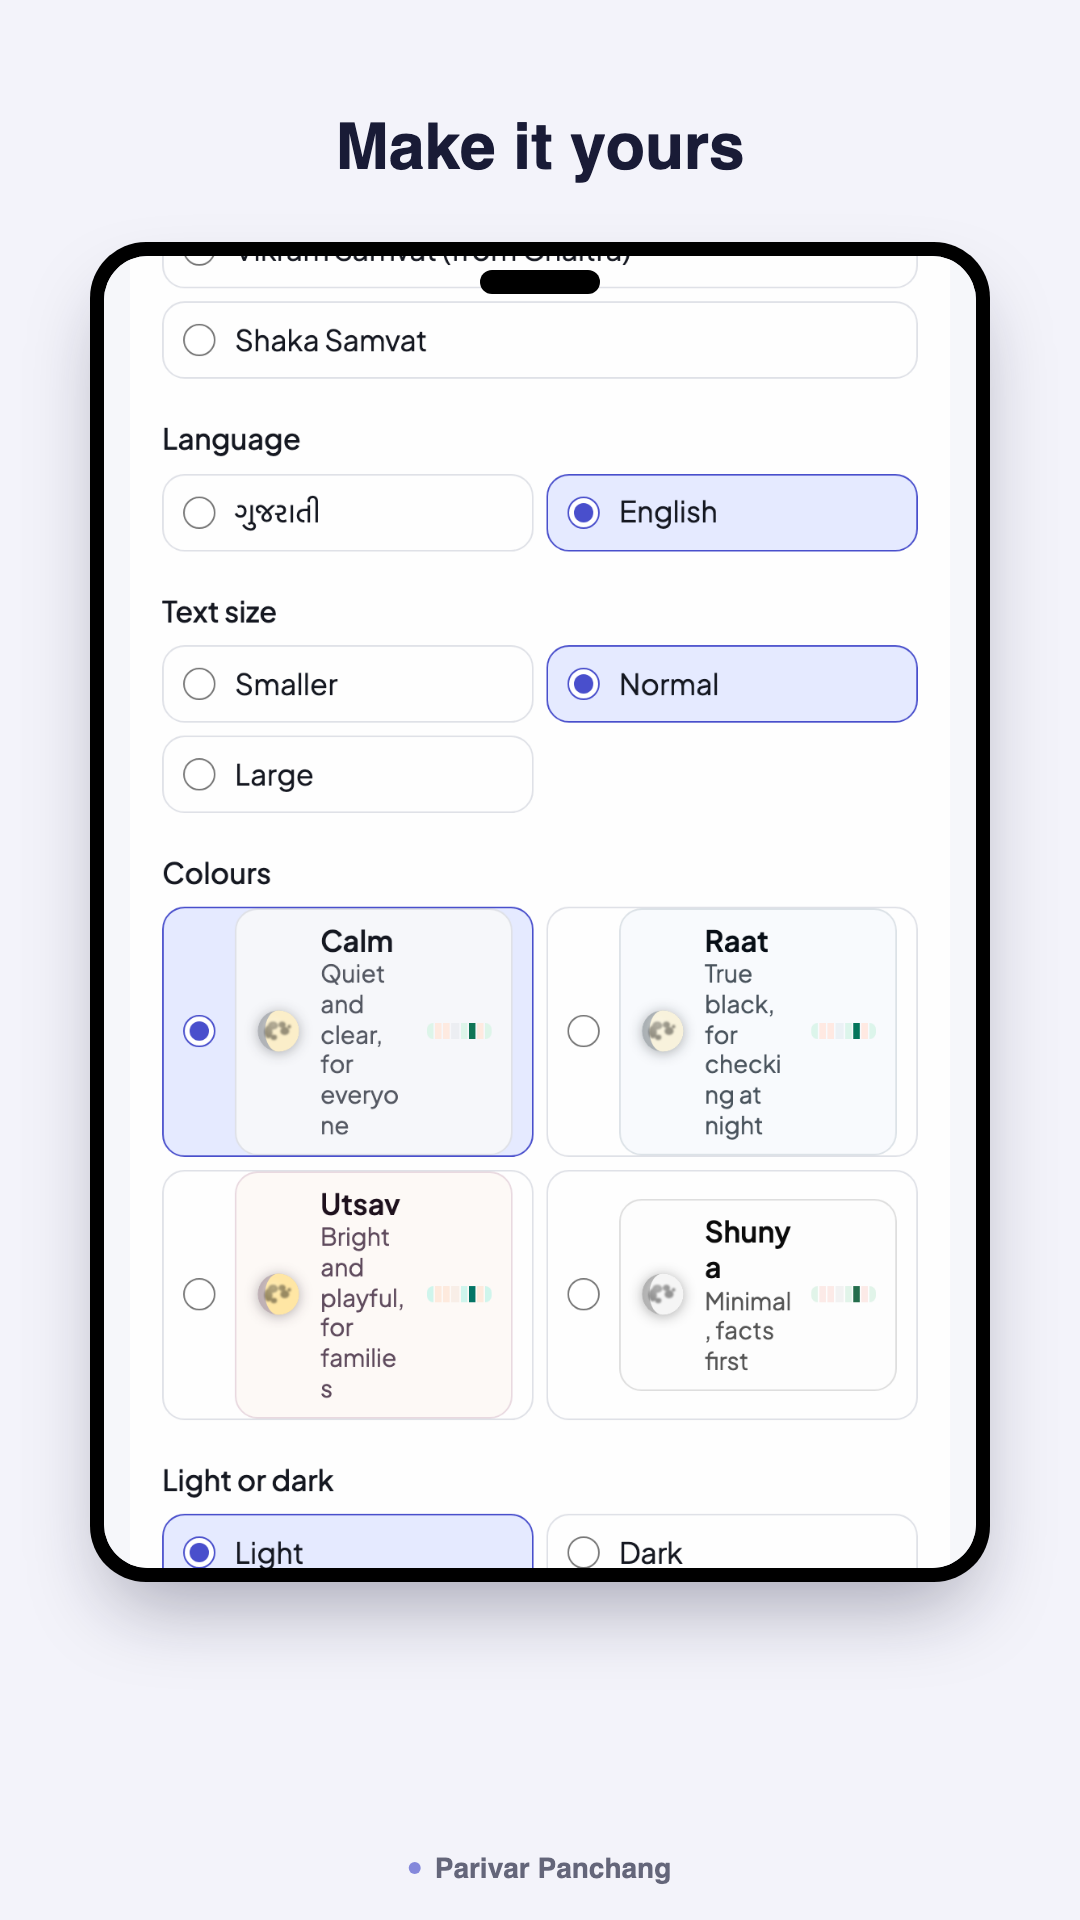
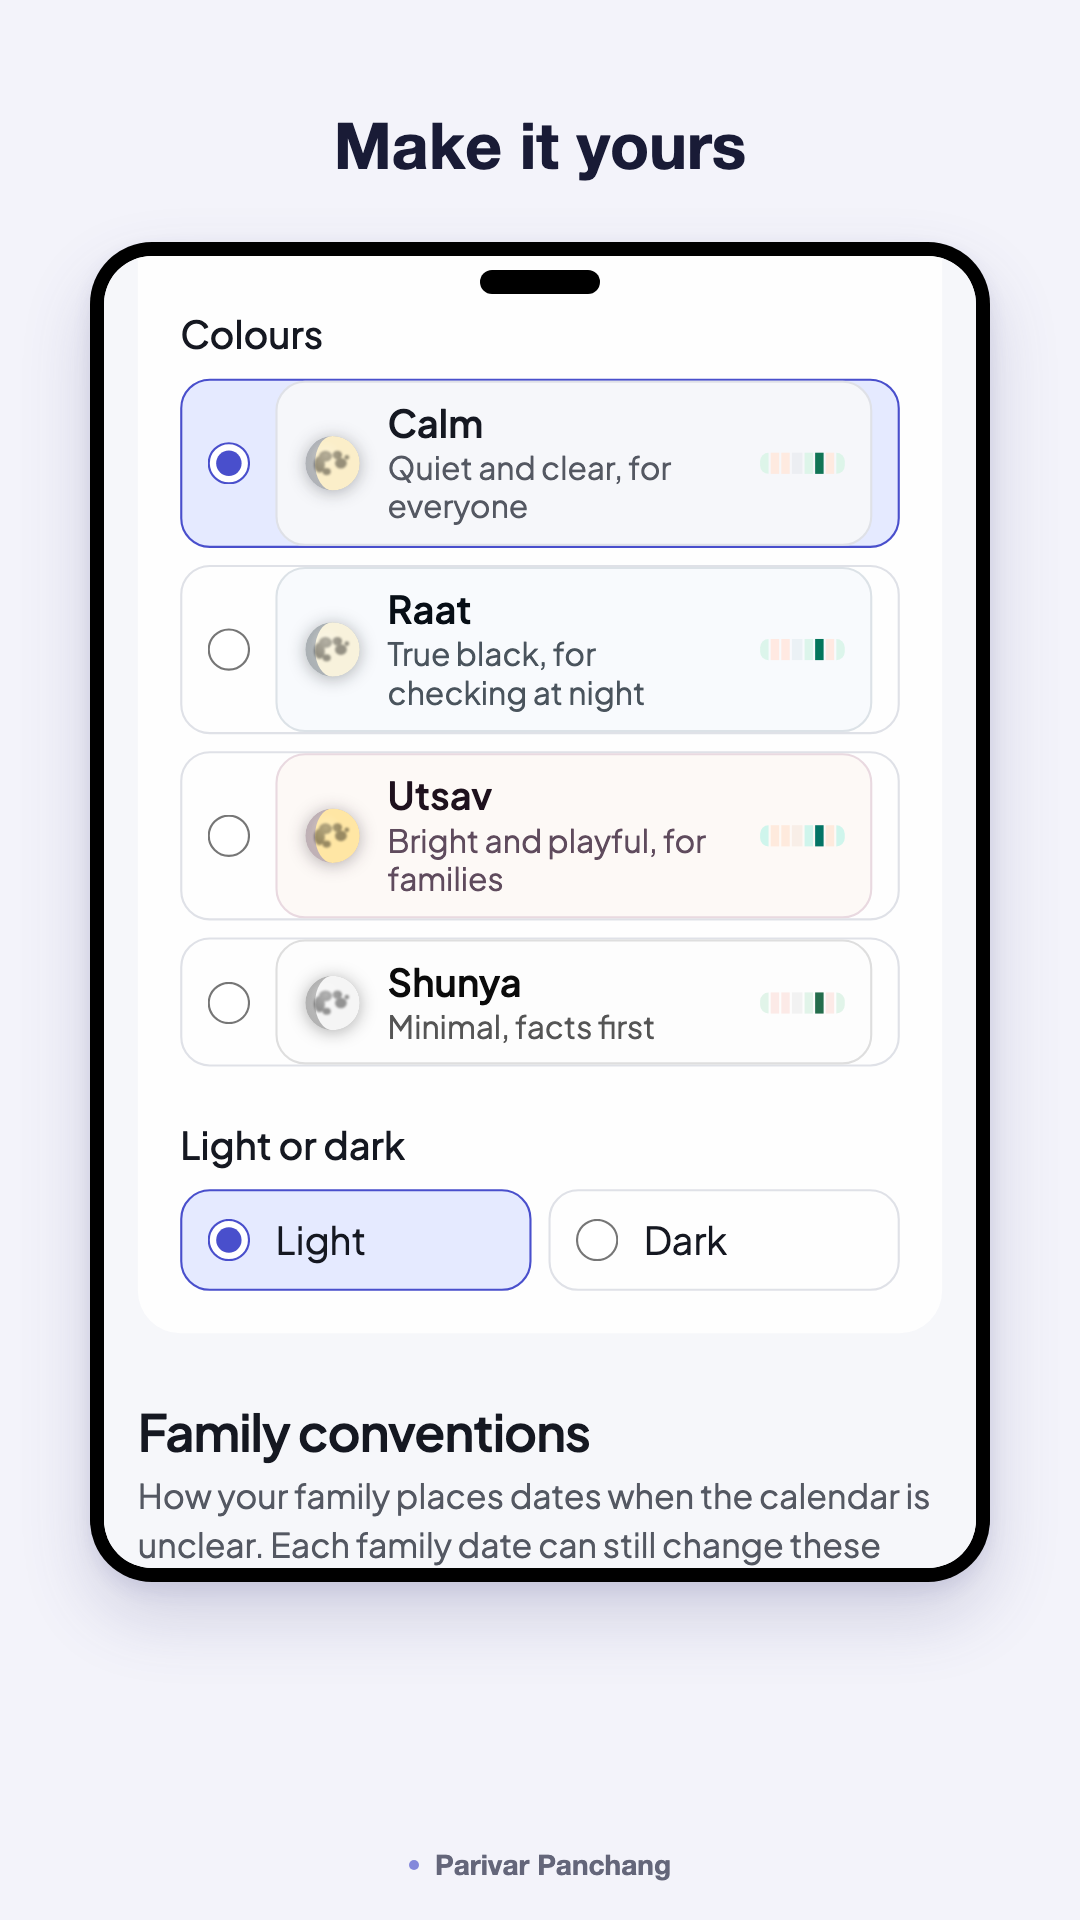
Recapture Play screenshots 05 (real reminder) and 06 (current Settings)

diff --git a/release/play-upload/CHECKLIST.md b/release/play-upload/CHECKLIST.md
@@ -12,15 +12,15 @@ Specs from Play Console Help, retrieved 2026-11-02: [preview assets](https://sup
 | Phone screenshots (en-IN) | `04-phone-screenshots/en/02-today-dark.png` | JPEG or 24-bit PNG, no alpha; sides 320–3840 px, long ≤ 2× short; 9:16 at ≥ 1080 px for promotion; ≤ 8 MB | 1080×1920 (9:16), 24-bit, no alpha, 226 KB | PASS |
 | Phone screenshots (en-IN) | `04-phone-screenshots/en/03-month.png` | JPEG or 24-bit PNG, no alpha; sides 320–3840 px, long ≤ 2× short; 9:16 at ≥ 1080 px for promotion; ≤ 8 MB | 1080×1920 (9:16), 24-bit, no alpha, 226 KB | PASS |
 | Phone screenshots (en-IN) | `04-phone-screenshots/en/04-family.png` | JPEG or 24-bit PNG, no alpha; sides 320–3840 px, long ≤ 2× short; 9:16 at ≥ 1080 px for promotion; ≤ 8 MB | 1080×1920 (9:16), 24-bit, no alpha, 207 KB | PASS |
-| Phone screenshots (en-IN) | `04-phone-screenshots/en/05-notification.png` | JPEG or 24-bit PNG, no alpha; sides 320–3840 px, long ≤ 2× short; 9:16 at ≥ 1080 px for promotion; ≤ 8 MB | 1080×1920 (9:16), 24-bit, no alpha, 74 KB | PASS |
-| Phone screenshots (en-IN) | `04-phone-screenshots/en/06-themes.png` | JPEG or 24-bit PNG, no alpha; sides 320–3840 px, long ≤ 2× short; 9:16 at ≥ 1080 px for promotion; ≤ 8 MB | 1080×1920 (9:16), 24-bit, no alpha, 184 KB | PASS |
+| Phone screenshots (en-IN) | `04-phone-screenshots/en/05-notification.png` | JPEG or 24-bit PNG, no alpha; sides 320–3840 px, long ≤ 2× short; 9:16 at ≥ 1080 px for promotion; ≤ 8 MB | 1080×1920 (9:16), 24-bit, no alpha, 183 KB | PASS |
+| Phone screenshots (en-IN) | `04-phone-screenshots/en/06-themes.png` | JPEG or 24-bit PNG, no alpha; sides 320–3840 px, long ≤ 2× short; 9:16 at ≥ 1080 px for promotion; ≤ 8 MB | 1080×1920 (9:16), 24-bit, no alpha, 183 KB | PASS |
 | Phone screenshots (en-IN) | `04-phone-screenshots/en/07-shunya.png` | JPEG or 24-bit PNG, no alpha; sides 320–3840 px, long ≤ 2× short; 9:16 at ≥ 1080 px for promotion; ≤ 8 MB | 1080×1920 (9:16), 24-bit, no alpha, 194 KB | PASS |
 | Phone screenshots (en) count | `04-phone-screenshots/en/` | 2–8 (4+ recommended) | 7 | PASS |
 | Phone screenshots (gu) | `04-phone-screenshots/gu/01-today.png` | JPEG or 24-bit PNG, no alpha; sides 320–3840 px, long ≤ 2× short; 9:16 at ≥ 1080 px for promotion; ≤ 8 MB | 1080×1920 (9:16), 24-bit, no alpha, 211 KB | PASS |
 | Phone screenshots (gu) | `04-phone-screenshots/gu/02-today-dark.png` | JPEG or 24-bit PNG, no alpha; sides 320–3840 px, long ≤ 2× short; 9:16 at ≥ 1080 px for promotion; ≤ 8 MB | 1080×1920 (9:16), 24-bit, no alpha, 222 KB | PASS |
 | Phone screenshots (gu) | `04-phone-screenshots/gu/03-month.png` | JPEG or 24-bit PNG, no alpha; sides 320–3840 px, long ≤ 2× short; 9:16 at ≥ 1080 px for promotion; ≤ 8 MB | 1080×1920 (9:16), 24-bit, no alpha, 200 KB | PASS |
 | Phone screenshots (gu) | `04-phone-screenshots/gu/04-family.png` | JPEG or 24-bit PNG, no alpha; sides 320–3840 px, long ≤ 2× short; 9:16 at ≥ 1080 px for promotion; ≤ 8 MB | 1080×1920 (9:16), 24-bit, no alpha, 175 KB | PASS |
-| Phone screenshots (gu) | `04-phone-screenshots/gu/05-notification.png` | JPEG or 24-bit PNG, no alpha; sides 320–3840 px, long ≤ 2× short; 9:16 at ≥ 1080 px for promotion; ≤ 8 MB | 1080×1920 (9:16), 24-bit, no alpha, 73 KB | PASS |
+| Phone screenshots (gu) | `04-phone-screenshots/gu/05-notification.png` | JPEG or 24-bit PNG, no alpha; sides 320–3840 px, long ≤ 2× short; 9:16 at ≥ 1080 px for promotion; ≤ 8 MB | 1080×1920 (9:16), 24-bit, no alpha, 150 KB | PASS |
 | Phone screenshots (gu) | `04-phone-screenshots/gu/06-themes.png` | JPEG or 24-bit PNG, no alpha; sides 320–3840 px, long ≤ 2× short; 9:16 at ≥ 1080 px for promotion; ≤ 8 MB | 1080×1920 (9:16), 24-bit, no alpha, 167 KB | PASS |
 | Phone screenshots (gu) | `04-phone-screenshots/gu/07-shunya.png` | JPEG or 24-bit PNG, no alpha; sides 320–3840 px, long ≤ 2× short; 9:16 at ≥ 1080 px for promotion; ≤ 8 MB | 1080×1920 (9:16), 24-bit, no alpha, 184 KB | PASS |
 | Phone screenshots (gu) count | `04-phone-screenshots/gu/` | 2–8 (4+ recommended) | 7 | PASS |

diff --git a/docs/release/play/README.md b/docs/release/play/README.md
@@ -30,8 +30,8 @@ Generated from the real production build (`pnpm --filter @panchang/app build && 
 | 02 | Today (Raat, dark) | Beautiful by day or night | દિવસે કે રાત્રે, એકસરખું સુંદર |
 | 03 | Month, with a verified festival | Festivals, clearly marked | તહેવારો, સ્પષ્ટ રીતે |
 | 04 | Family dates | Never miss Ba's varsi | બાની વરસી ક્યારેય ના ચૂકો |
-| 05 | Reminder notification (real, on-device) | Right on time, every year | દર વર્ષે, બરાબર સમયે |
-| 06 | Settings → themes | Make it yours | તમારી પસંદ મુજબ |
+| 05 | Real reminder arriving over Family dates (emulator, 8:00 AM, recaptured 2026-11-02) | Right on time, every year | દર વર્ષે, બરાબર સમયે |
+| 06 | Settings → Colours and Light/dark (current UI, recaptured 2026-11-02) | Make it yours | તમારી પસંદ મુજબ |
 | 07 | Today (Shunya, minimal) | Simple and clear for everyone | બધા માટે સરળ અને સ્પષ્ટ |
 
 **Deviation from the brief:** the brief asked for a "Kagaz, for elders" screenshot. Kagaz (and Mandir) were removed in the Phase 11.7 follow-up (ADR 0026, 2026-10-27) — the app now ships four palettes (Calm, Raat, Utsav, Shunya), not six. #07 uses **Shunya** instead ("minimal, facts first" in-app), the closest existing match to the elders/simplicity brief.
